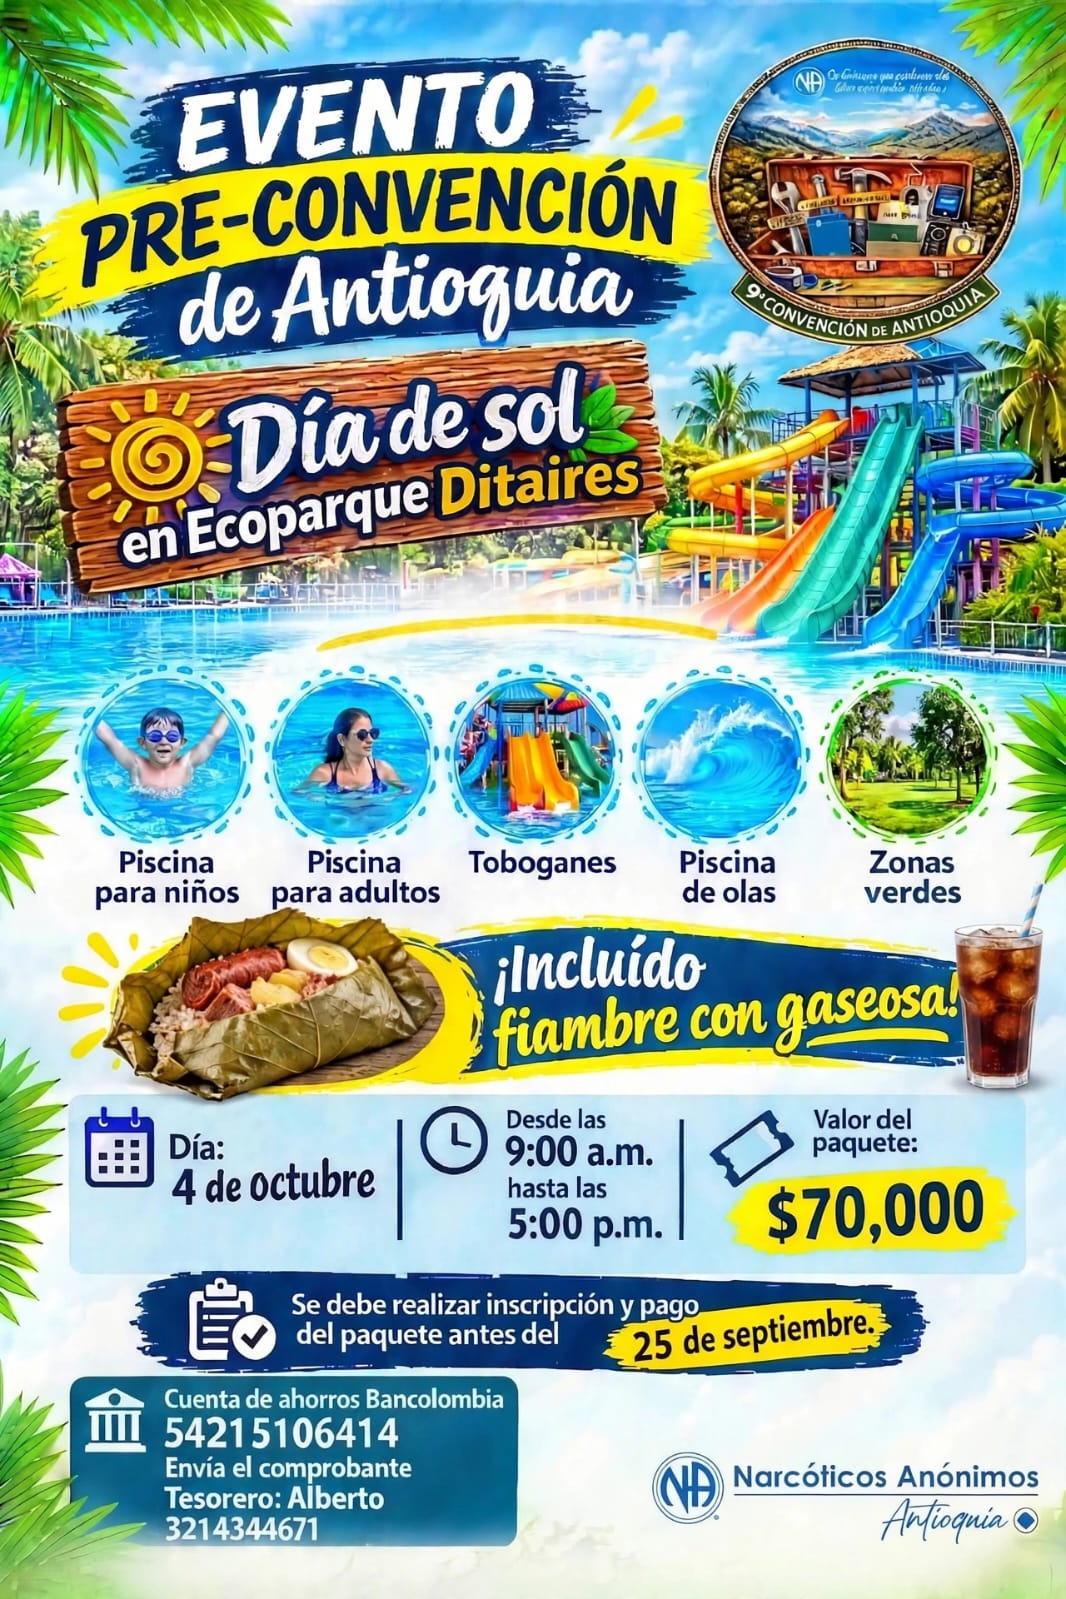
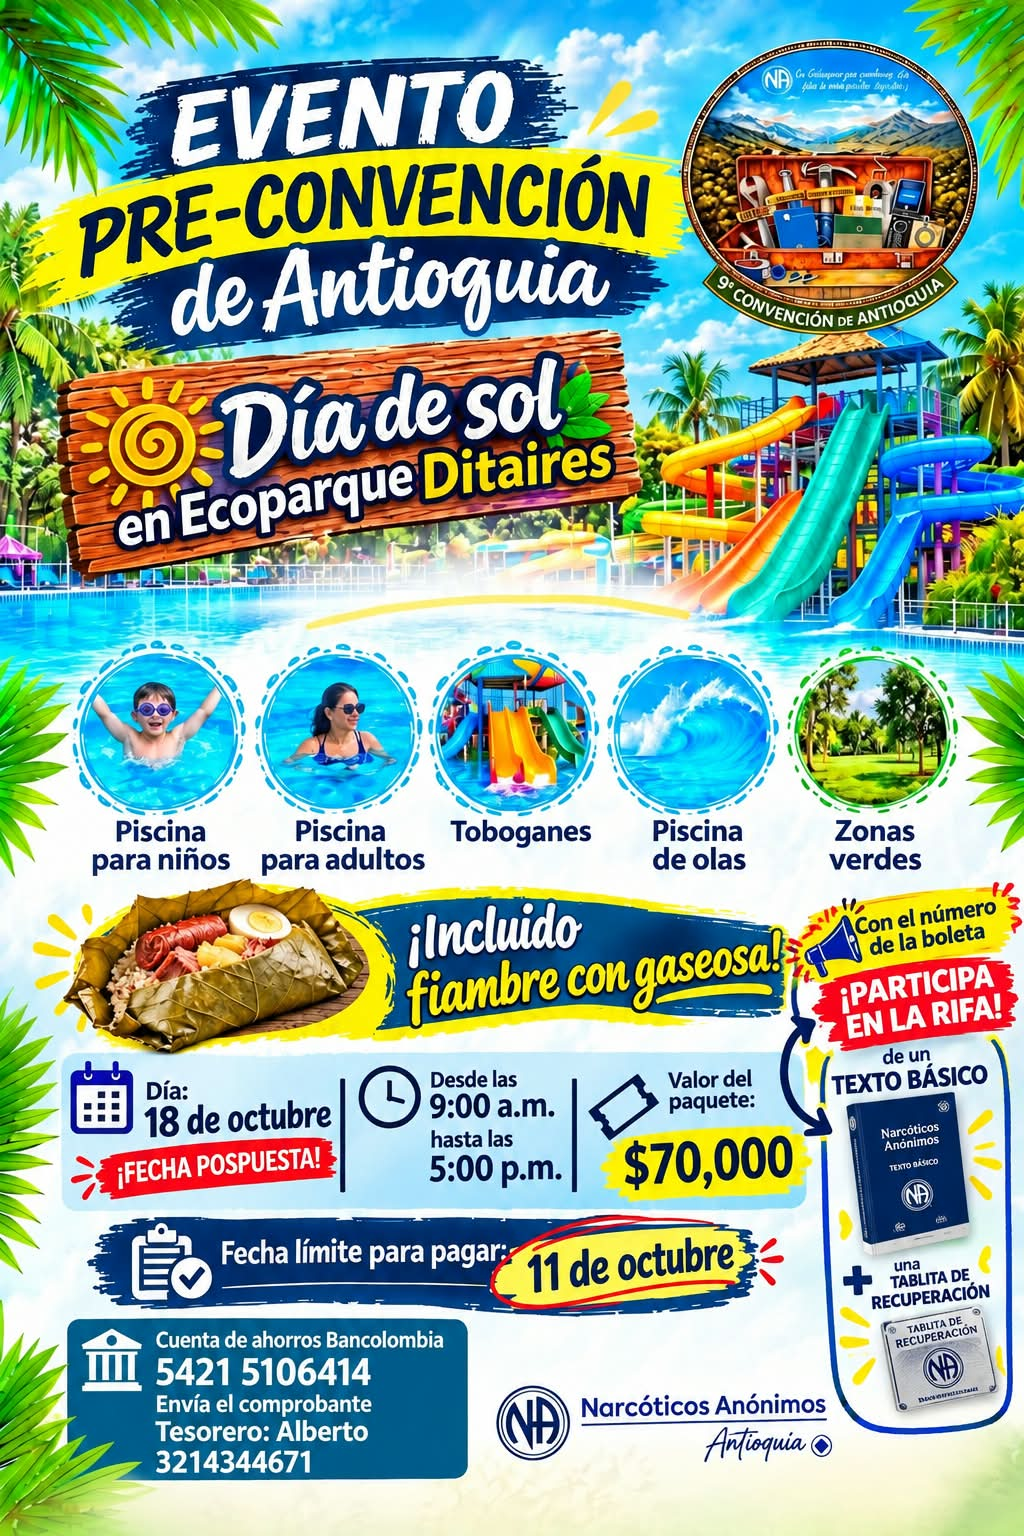
update evento preconvencion

diff --git a/src/app/components/carousel/carousel.ts b/src/app/components/carousel/carousel.ts
@@ -24,7 +24,7 @@ export class Carousel implements OnInit, OnDestroy {
 
   images: CarouselImage[] = [
     { src: 'Eventos/TallerDePasosElCamino.jpeg', startDate: '2026-09-24', endDate: '2026-09-29', link: 'https://meet.google.com/bzt-jmky-udh' },
-    { src: 'Eventos/EventoConvencionAntioquia.jpeg', startDate: '2026-09-08', endDate: '2026-10-04' },
+    { src: 'Eventos/EventoConvencionAntioquia.jpeg', startDate: '2026-09-08', endDate: '2026-10-18' },
     { src: 'Eventos/InscripcionConvencion.jpeg', startDate: '2026-06-23', endDate: '2026-11-16' },
     { src: 'Eventos/Clana2027.jpeg', startDate: '2026-07-17', endDate: '2026-12-31' },
     { src: 'Eventos/QRUltimaEdicion.jpeg', startDate: '2026-07-26', endDate: '2027-07-31' },
